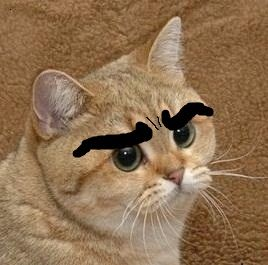
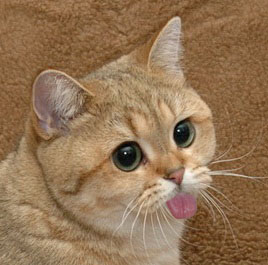
More gifs, new cat.

Changed region(s): [[0.2687, 0.3623, 0.806, 0.6038], [0.597, 0.7245, 0.7463, 0.8453], [0.8955, 0.9962, 0.9254, 1.0]]

diff --git a/index.html b/index.html
@@ -11,11 +11,7 @@
 <link href="css/twbscolor.css" rel="stylesheet">
 <link href="css/styles.css" rel="stylesheet">
 <style>
-img { margin: 40px auto; }
-img.resize{
-  width: auto;
-  height: 500px;
-}
+img { margin: 50px auto; }
 #dimTop {
   top: 0;
   left: 0;
@@ -56,13 +52,24 @@ img.resize{
   color: gray;
 }
 #mute:focus, #mute:active:focus, #mute.active:focus { outline: 0 none; }
+
 #inspiration { font-size: 2em; }
+#inspiration div:first-child { text-align: right; }
+.row {
+  margin-left: 0px;
+  margin-right: 0px;
+}
 </style>
 </head>
 <body class="open-dark" style="background: linear-gradient(to bottom, black, white);">
 
   <audio id="musicTrack" src="audio/When I Was Done Dying.mp3" preload="auto"></audio>
-  <span id="inspiration">This website is inspired by the music video for <a href="https://vimeo.com/123219861" target="_blank">"When I Was Done Dying" by Dan Deacon.</a></span>
+
+  <div class="row" id="inspiration">
+    <div class="col-xs-6">This website is inspired by the music video for</div>
+    <div class="col-xs-6"><a href="https://vimeo.com/123219861" target="_blank">"When I Was Done Dying" by Dan Deacon.</a></div>
+  </div>
+
   <div class="text-center"><button id="play" class="btn btn-success btn-lg">Start The Show</button></div>
 
   <!-- <div id="dimTop"></div> -->
@@ -73,30 +80,39 @@ img.resize{
     <div id="time-debug" style="text-align: center;">Time</div>
   </div>
 
-  <div class="row"><img id="frame1" class="img-responsive resize" src="images/0-06.gif" /></div>
-  <div class="row"><img id="frame2" class="img-responsive resize" src="images/0-09.gif" /></div>
-  <div class="row"><img id="frame3" class="img-responsive resize" src="images/0-12.gif" /></div>
-  <div class="row"><img id="frame4" class="img-responsive resize" src="images/0-15.gif" /></div>
-  <div class="row"><img id="frame5" class="img-responsive resize" src="images/0-16.gif" /></div>
-  <div class="row"><img id="frame6" class="img-responsive resize" src="images/0-18.gif" /></div>
-  <div class="row"><img id="frame7" class="img-responsive resize" src="images/0-19.gif" /></div>
-  <div class="row"><img id="frame8" class="img-responsive resize" src="images/0-20.gif" /></div>  <!-- Eyes open, Lyrics start. -->
-  <div class="row"><img id="frame9" class="img-responsive resize" src="images/0-21.gif" /></div>
-  <div class="row"><img id="frame10" class="img-responsive resize" src="images/0-24.gif" /></div>
-  <div class="row"><img id="frame11" class="img-responsive resize" src="images/0-25.gif" /></div>
-  <div class="row"><img id="frame12" class="img-responsive resize" src="images/0-27.gif" /></div>
-  <!-- <div class="row"><img id="frame13" class="img-responsive resize" src="images/0-28.gif" /></div> -->
-  <div class="row"><img id="frame13" class="img-responsive resize" src="images/0-29.gif" /></div>
-  <div class="row"><img id="frame14" class="img-responsive resize" src="images/0-30.gif" /></div>   <!-- "And it startled me so" -->
-  <div class="row"><img id="frame15" class="img-responsive resize" src="images/0-32.gif" /></div>
-  <div class="row"><img id="frame16" class="img-responsive resize" src="images/0-35.gif" /></div>
-  <div class="row"><img id="frame17" class="img-responsive resize" src="images/0-36.gif" /></div>
-  <div class="row"><img id="frame18" class="img-responsive resize" src="images/0-40.gif" /></div>
-  <div class="row"><img id="frame19" class="img-responsive resize" src="images/0-41.gif" /></div>
-  <div class="row"><img id="frame20" class="img-responsive resize" src="images/0-50.gif" /></div>
+  <div class="row"><img id="frame1" class="img-responsive" src="images/0-06.gif" /></div>
+  <div class="row"><img id="frame2" class="img-responsive" src="images/0-09.gif" /></div>
+  <div class="row"><img id="frame3" class="img-responsive" src="images/0-12.gif" /></div>
+  <div class="row"><img id="frame4" class="img-responsive" src="images/0-15.gif" /></div>
+  <div class="row"><img id="frame5" class="img-responsive" src="images/0-16.gif" /></div>
+  <div class="row"><img id="frame6" class="img-responsive" src="images/0-18.gif" /></div>
+  <div class="row"><img id="frame7" class="img-responsive" src="images/0-19.gif" /></div>
+  <div class="row"><img id="frame8" class="img-responsive" src="images/0-20.gif" /></div>  <!-- Eyes open, Lyrics start. -->
+  <div class="row"><img id="frame9" class="img-responsive" src="images/0-21.gif" /></div>
+  <div class="row"><img id="frame10" class="img-responsive" src="images/0-24.gif" /></div>
+  <div class="row"><img id="frame11" class="img-responsive" src="images/0-25.gif" /></div>
+  <div class="row"><img id="frame12" class="img-responsive" src="images/0-27.gif" /></div>
+  <div class="row"><img id="frame13" class="img-responsive" src="images/0-29.gif" /></div>
+  <div class="row"><img id="frame14" class="img-responsive" src="images/0-30.gif" /></div>   <!-- "And it startled me so" -->
+  <div class="row"><img id="frame15" class="img-responsive" src="images/0-32.gif" /></div>
+  <div class="row"><img id="frame16" class="img-responsive" src="images/0-35.gif" /></div>
+  <div class="row"><img id="frame17" class="img-responsive" src="images/0-36.gif" /></div>
+  <div class="row"><img id="frame18" class="img-responsive" src="images/0-40.gif" /></div>
+  <div class="row"><img id="frame19" class="img-responsive" src="images/0-41.gif" /></div>
+  <div class="row"><img id="frame20" class="img-responsive" src="images/0-50.gif" /></div>
+  <div class="row"><img id="frame21" class="img-responsive" src="images/0-52.gif" /></div>
+  <div class="row"><img id="frame22" class="img-responsive" src="images/0-55.gif" /></div>
+  <div class="row"><img id="frame23" class="img-responsive" src="images/0-57.gif" /></div>
+  <div class="row"><img id="frame24" class="img-responsive" src="images/0-58.gif" /></div>
+  <div class="row"><img id="frame25" class="img-responsive" src="images/0-59.gif" /></div>
+  <div class="row"><img id="frame26" class="img-responsive" src="images/1-00.gif" /></div>
+  <div class="row"><img id="frame27" class="img-responsive" src="images/1-02.gif" /></div>
+  <div class="row"><img id="frame28" class="img-responsive" src="images/1-04.gif" /></div>
+  <div class="row"><img id="frame29" class="img-responsive" src="images/1-05.gif" /></div>
+  <div class="row"><img id="frame30" class="img-responsive" src="images/1-06.gif" /></div>
 
-  <div class="row"><img id="frame21" class="img-responsive resize" src="images/cat1.jpg" /></div>
-  <div class="row"><img id="frame22" class="img-responsive resize" src="images/cat2.jpg" /></div>
+  <div class="row"><img id="frame31" class="img-responsive" src="images/cat1.jpg" /></div>
+  <div class="row"><img id="frame32" class="img-responsive" src="images/cat2.jpg" /></div>
 
 <script src="js/jquery-1.11.3.js"></script>
 <script src="js/bootstrap.min.js"></script>
